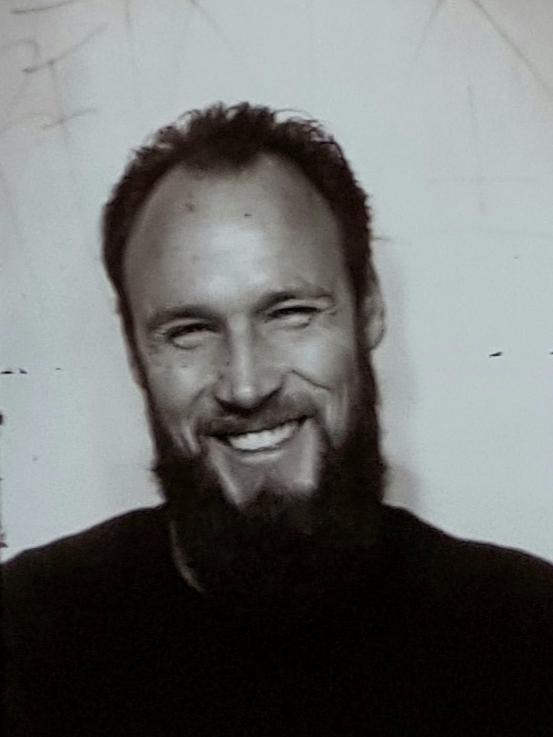
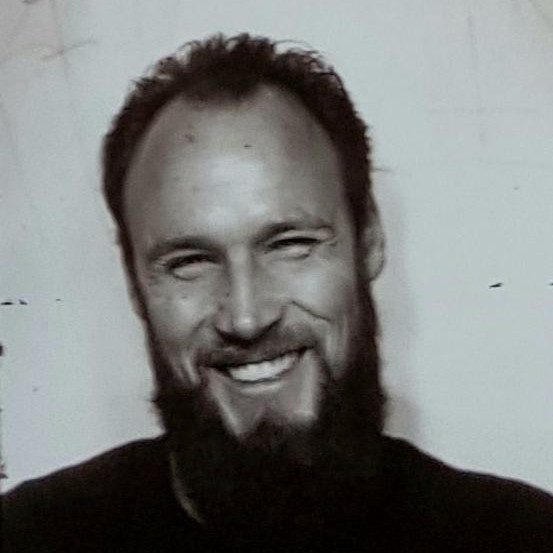
square thumb

diff --git a/_members/dominic.md b/_members/dominic.md
@@ -3,7 +3,7 @@ layout: member
 full_name: Dominic Hillerkuss
 description: interdisciplinary artist
 thumb: /assets/img/members/dominic/dominic-thumb.jpg
-portrait: /assets/img/members/dominic/dominic-thumb.jpg
+portrait: /assets/img/members/dominic/dominic-portrait.jpg
 portfolio_image_locations:
   - /assets/img/members/dominic/dominic-photo1.jpg
   - /assets/img/members/dominic/dominic-photo2.jpg
@@ -15,7 +15,7 @@ socials:
 ---
 Most art I create is by the examination of myself. I like to travel far in mind; not so much physically.
 My motivation has its origins in curiosity and the desire to experiment, create and manipulate. I want to share my explorations so that they also move other people - and not just myself. I like to bring things together from different perspectives. Besides I would describe myself as a ‘coincidence provoker', restless pioneer, critical creative & progressive synthesizer. 
- 
+
 I took the route of the realization of projects in graphic design, plastic arts and digital arts as an independent artist. I participated in several band projects for 13 years. I like to find myself within mutual inspiration, composing, collaboration and immersion. 
 
 <br>
